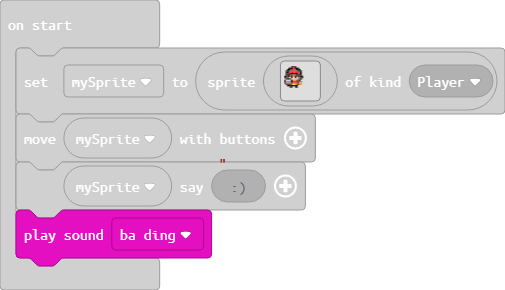
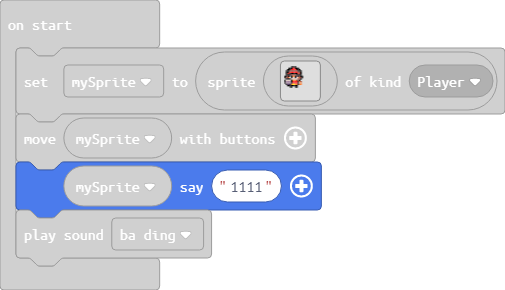
Update main.blocks, main.ts

Changed region(s): [[0.0297, 0.5276, 0.6535, 0.931]]

diff --git a/main.ts b/main.ts
@@ -25,5 +25,5 @@ f b b b b f 2 2 2 2 f d 4 . . . . . . . . . . .
 . . . . . . . . . . . . . . . . . . . . . . . . 
 `, SpriteKind.Player)
 controller.moveSprite(mySprite)
-mySprite.say(":)")
+mySprite.say("1111")
 music.baDing.play()
